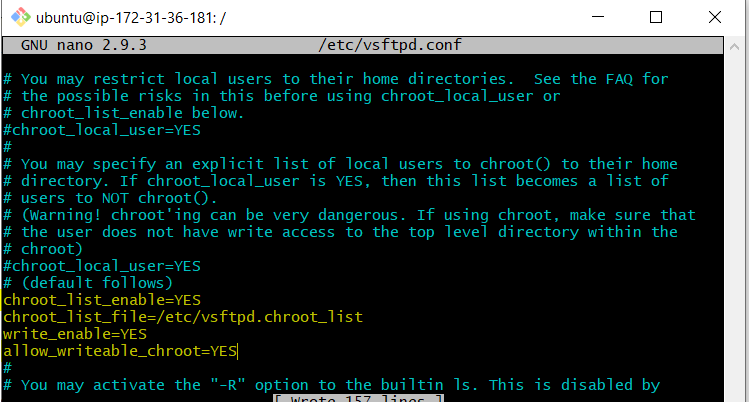
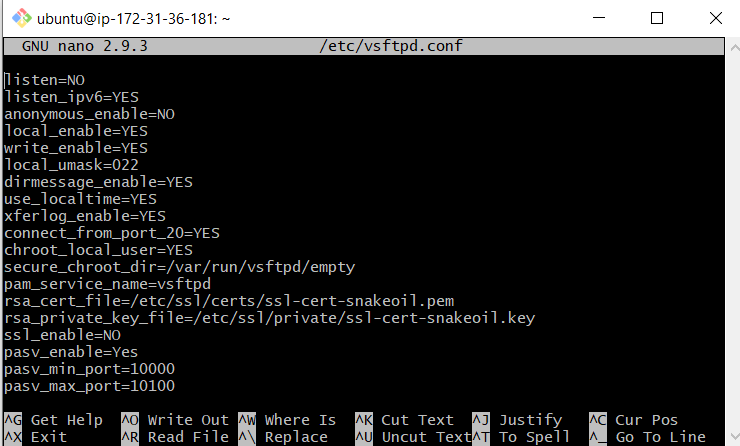
tarea05md terminado

Changed region(s): [[0.0, 0.0, 1.0, 1.0]]

diff --git a/tarea-05-jon.md b/tarea-05-jon.md
@@ -1,8 +1,9 @@
 # TAREA 5: Servidor FTP
 Podemos instalar el ***vsftpd*** que viene siendo el servidor FTP en GNU/Linux
 ![](images/tarea05md/captura01.png)
-En el archivo de configuracion deberemos de tener escritas las siguinetes lineas
+En el archivo de configuracion deberemos de tener escritas las siguientes lineas
 ![](images/tarea05md/captura03.png)
+![](images/tarea05md/captura08.png)
 Una vez instalado, vamos a conectarnos al servidor desde otra maquina, via comandos. para que esto sea posible, en la instancia de amazon tenemos que añadir una regla de entrada que admita conexiones por el puerto 21
 ![](images/tarea05md/captura04.png)
 ![](images/tarea05md/captura05.png)
@@ -11,3 +12,11 @@ Ahora vamos a probar a conectarnos al servidor FTP
 nos da respuesta, pero el usuario no es valido. Vamos a crearlos.
 El usuario admin, cliente y servidor, cada uno con los directorios donde podra realizar cambios
 ![](images/tarea05md/captura07.png)
+Por ultimo nos conectaremos al servidor ftp con los tres usuarios creados anteriormente, y comprobaremos que esten en su correspondiente directorio
+
+El usuario admin
+![](images/tarea05md/captura09.png)
+El usuario cliente
+![](images/tarea05md/captura10.png)
+El usuario servidor
+![](images/tarea05md/captura11.png)
